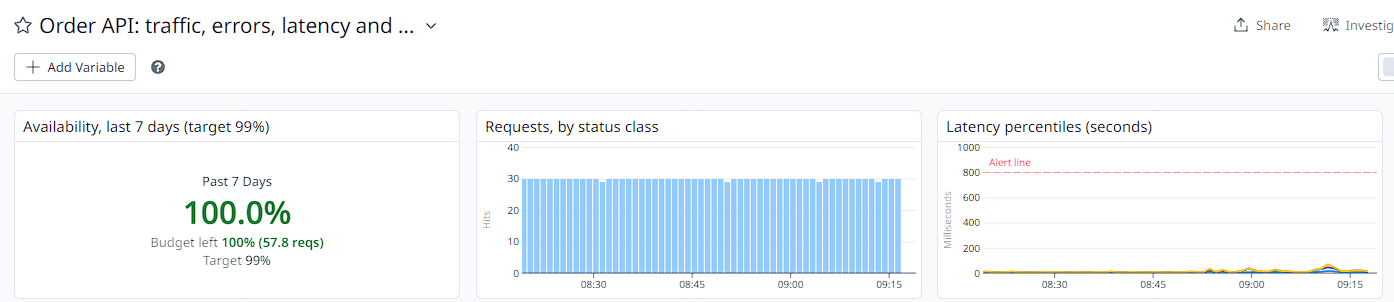
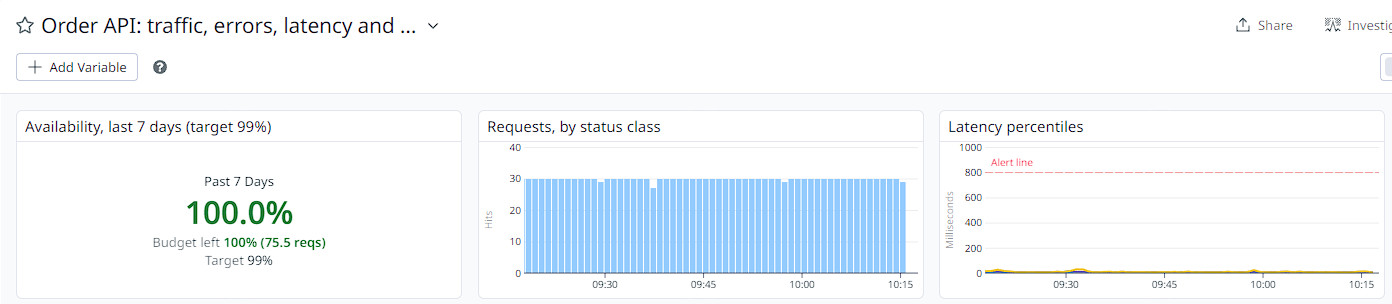
Evidence 06: Datadog dashboard with the corrected title

diff --git a/docs/evidence/06-dashboards-slo-alerts.md b/docs/evidence/06-dashboards-slo-alerts.md
@@ -31,7 +31,7 @@ Datadog metric:    P95 5.07 ms
 ```text
 Apply complete! Resources: 10 added, 0 changed, 0 destroyed.
 Availability 100% and error budget 100% in both vendors
-Datadog error budget: 57.8 requests (1% of about 5,780 in 7 days)
+Datadog error budget: 75.5 requests (1% of about 7,550 in 7 days)
 Alerts: New Relic 0 open issues, Datadog monitor OK
 Test notifications: email arrived from both vendors
 ```
